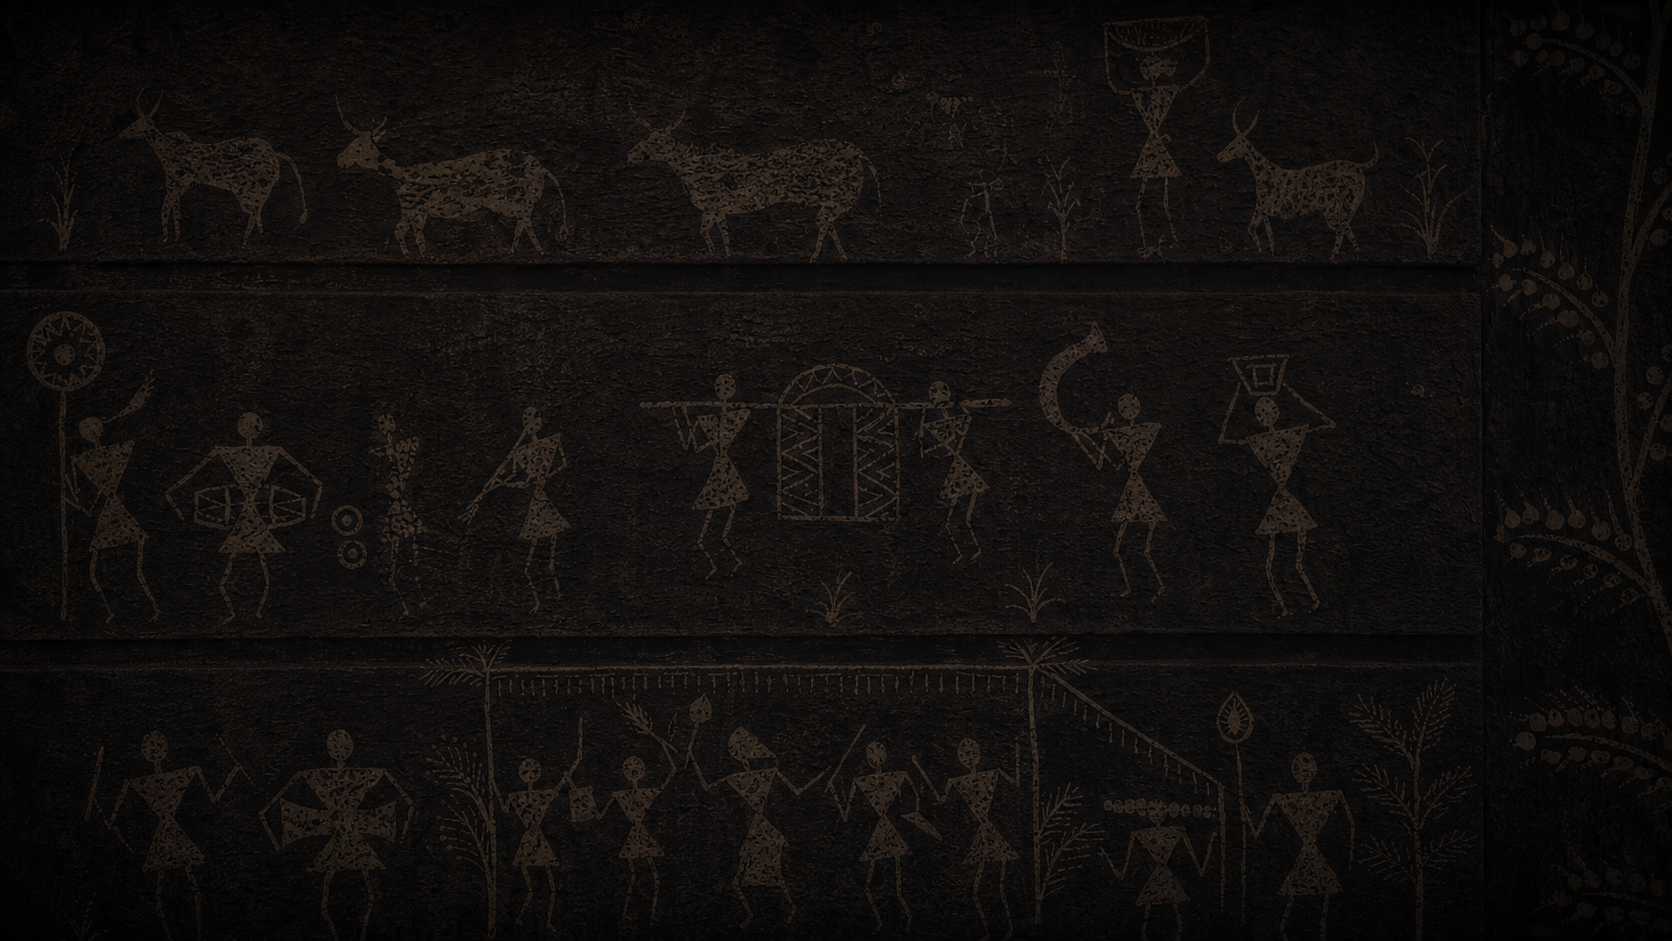
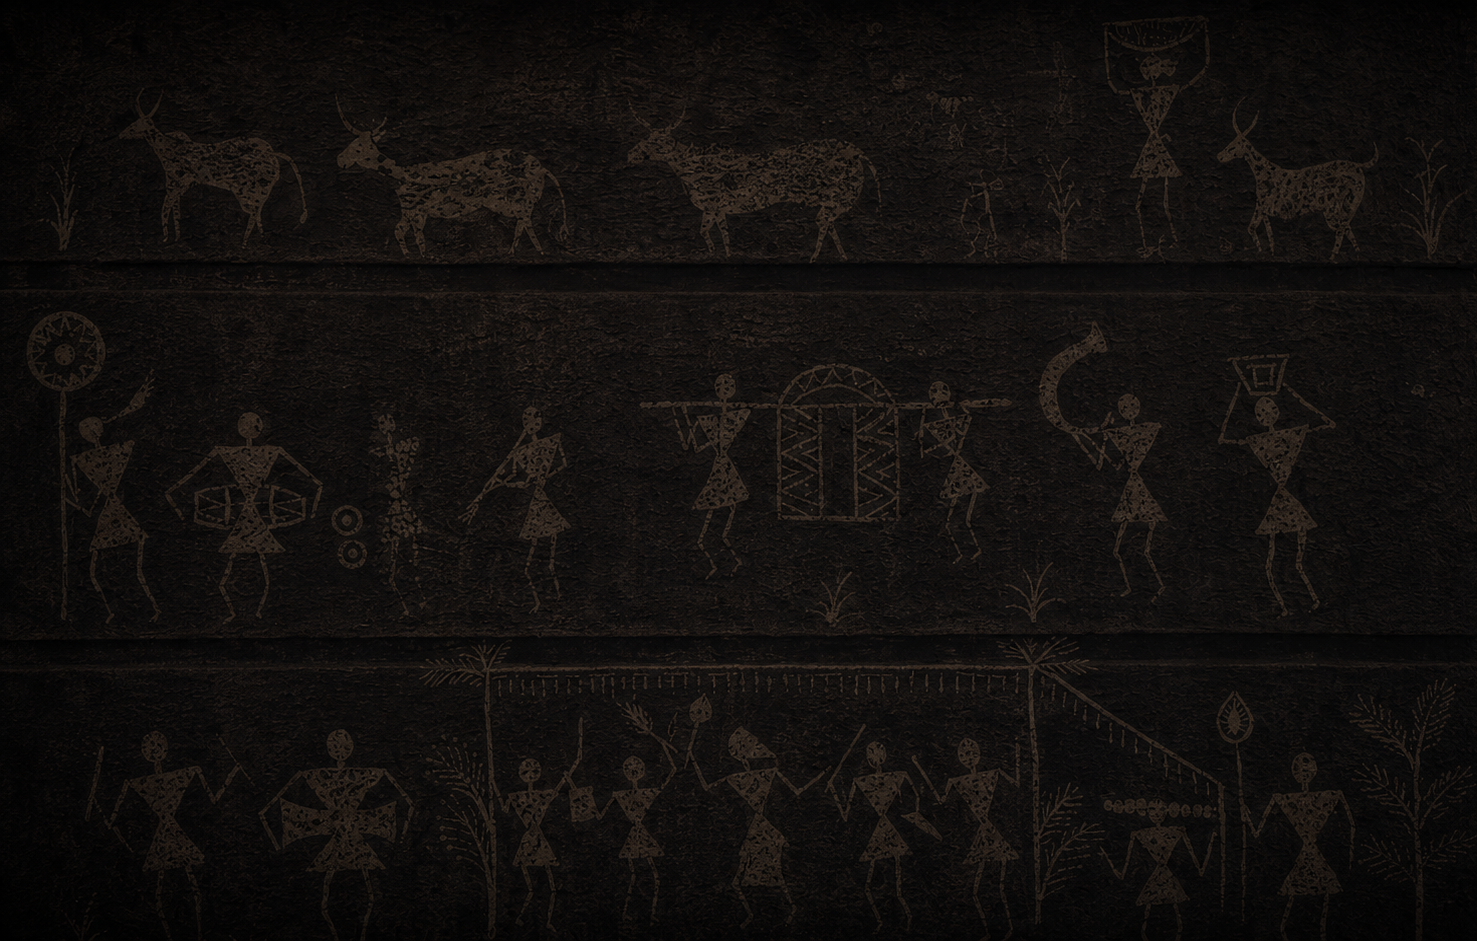
.

diff --git a/src/components/Edition/Edition.css b/src/components/Edition/Edition.css
@@ -8,13 +8,11 @@
   top: 50%;
   transform: translateY(-50%);
   width: 108%;
-  height: 80%;
+  height: 105%;
   object-fit: contain;
   object-position: center;
-  opacity: 0.6;
+  opacity: 0.4;
   mix-blend-mode: screen;
-  -webkit-mask-image: linear-gradient(to top, rgba(0, 0, 0, 1) 15%, rgba(0, 0, 0, 0) 100%);
-  mask-image: linear-gradient(to top, black 15%, transparent 100%);
   pointer-events: none;
   z-index: 0;
 }

diff --git a/src/components/Schedule/Schedule.css b/src/components/Schedule/Schedule.css
@@ -7,7 +7,7 @@
   height: 100%;
   object-fit: cover;
   object-position: center center;
-  opacity: 0.16;
+  opacity: 0.25;
   mix-blend-mode: screen;
   -webkit-mask-image: linear-gradient(to bottom, transparent 0%, black 8%, black 92%, transparent 100%);
   mask-image: linear-gradient(to bottom, transparent 0%, black 8%, black 92%, transparent 100%);
